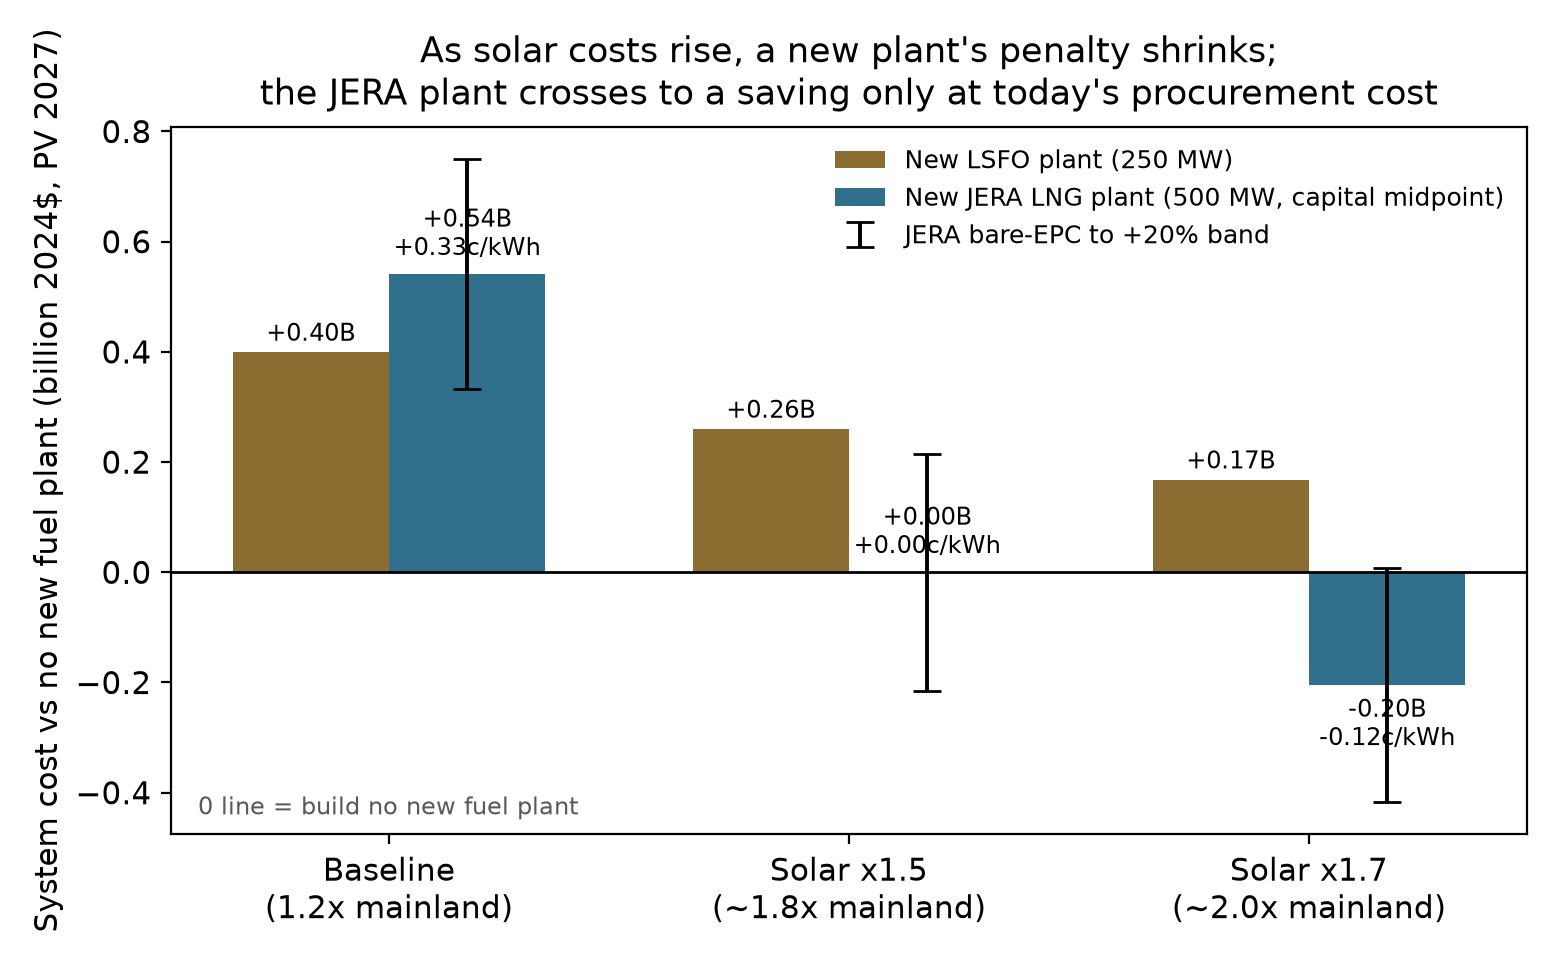
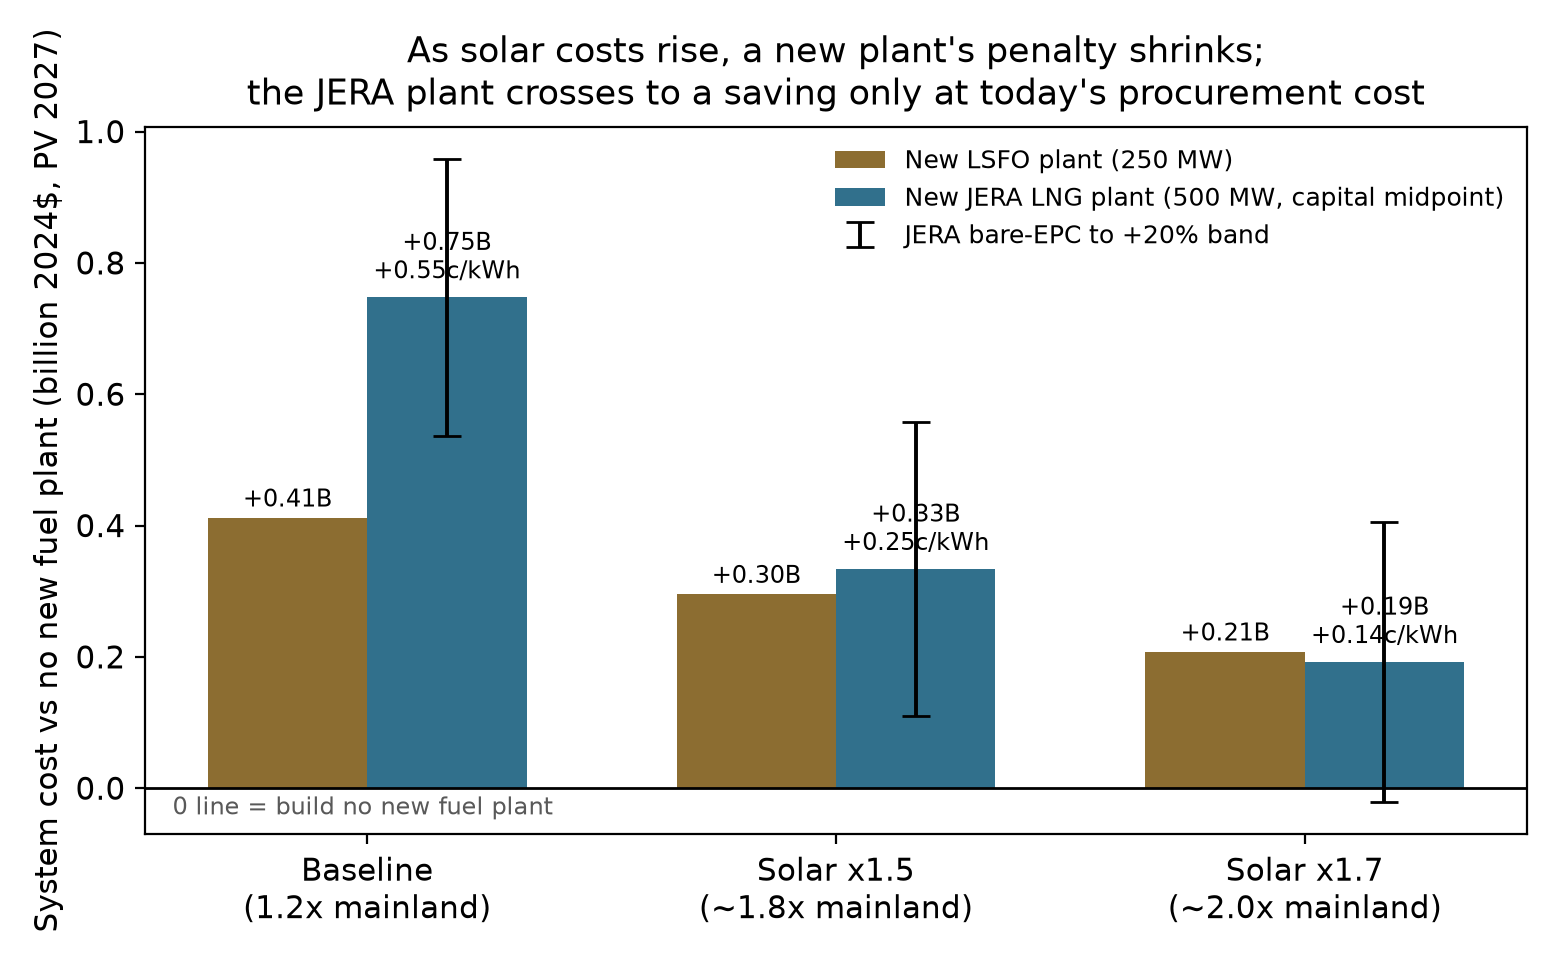
Sync results and report from working repository

diff --git a/report/DRAFT_v7_full.md b/report/DRAFT_v7_full.md
@@ -52,11 +52,11 @@ new fuel plant, and the considerations outside the cost model also point away
 from it.** Solved at the midpoint of JERA's own cost range — their bare-EPC
 estimate and their +20 percent sensitivity, which restores the customs,
 insurance, design-allowance, and contingency items the estimate excludes — the
-JERA bundle comes in $0.54 billion above building no new fuel plant at
-reference oil, with the range spanning $0.33 to $0.75 billion above (Table
-ES.1). The gap is smaller at low oil ($0.47 billion) and larger at high oil
-($0.70 billion), and positive in every case. Differences of this size amount
-to roughly a third of a cent per kilowatt-hour (Appendix A.1) — under one
+JERA bundle comes in $0.75 billion above building no new fuel plant at
+reference oil, with the range spanning $0.54 to $0.96 billion above (Table
+ES.1). The gap is smaller at low oil ($0.67 billion) and larger at high oil
+($0.85 billion), and positive in every case. Differences of this size amount
+to roughly half a cent per kilowatt-hour (Appendix A.1) — under two
 percent of a typical bill, so other considerations might tilt the balance. Considerations 
 the cost model does not capture push the same way, however: a twenty-year 
 single-supplier contract whose price formula should be read as a floor rather 
@@ -78,7 +78,7 @@ plants, not a new one.
 The case for LNG, but not necessarily a new power plant, is stronger if solar 
 deployment costs stay near today's procurement reality, or if existing storage tax 
 credits are denied — while the clean-energy mandate itself is inexpensive to keep 
-(about $0.3 billion, or 0.18 cents per kilowatt-hour; Section 4.6b) if the Hawaii
+(about $0.26 billion, or about 0.2 cents per kilowatt-hour; Section 4.6b) if the Hawaii
 solar premium is limited to 20% above national midline projections.
 
 **Finding 3. Under current law, Enhanced Geothermal is in the least-cost
@@ -115,13 +115,13 @@ a deliberately extreme charge (Section 4.6a).
 
 | Trajectory | Low oil | Reference | High oil |
 |---|---:|---:|---:|
-| No new fuel plant | 26.30 | 26.70 | 27.18 |
-| LNG conversions, no new plant — net of conversion capital | — | 26.00 (−0.70) *[−0.44]* | — |
-| Modern LSFO plant (250 MW) | 26.65 (+0.35) | 27.10 (+0.40) | 27.66 (+0.48) |
-| JERA LNG 500 MW — midpoint | 26.78 (+0.48) | 27.24 (+0.54) | 27.88 (+0.70) |
-| *…JERA band [bare-EPC, +20%]* | *[+0.27, +0.69]* | *[+0.33, +0.75]* | *[+0.49, +0.91]* |
-| Waiau Repower only | 27.67 (+1.36) | 28.07 (+1.38) | 28.58 (+1.40) |
-| Waiau + LSFO plant | 28.08 (+1.78) | 28.54 (+1.84) | 29.10 (+1.92) |
+| No new fuel plant | 25.49 | 25.86 | 26.32 |
+| LNG conversions, no new plant — net of conversion capital | — | 25.25 (−0.61) *[−0.35]* | — |
+| Modern LSFO plant (250 MW) | 25.90 (+0.40) | 26.27 (+0.41) | 26.81 (+0.49) |
+| JERA LNG 500 MW — midpoint | 26.17 (+0.67) | 26.60 (+0.75) | 27.17 (+0.85) |
+| *…JERA band [bare-EPC, +20%]* | *[+0.46, +0.89]* | *[+0.54, +0.96]* | *[+0.64, +1.07]* |
+| Waiau Repower only | 26.87 (+1.38) | 27.25 (+1.39) | 27.76 (+1.44) |
+| Waiau + LSFO plant | 27.34 (+1.85) | 27.74 (+1.88) | 28.28 (+1.96) |
 | Waiau + JERA LNG — midpoint | — | 28.71 (+2.01) | — |
 
 **Reliability.** Every scenario considered meets load and operating reserves at
@@ -954,8 +954,8 @@ billion on its own, and every bundle containing it inherits the penalty. This
 result is robust to every sensitivity in the report.
 
 **A right-sized plant costs less than the proposal.** At the midpoint of
-JERA's cost range, a 375 MW version comes in $0.25 billion above no-new-plant
-against $0.54 billion for the 500 MW version, smaller but still a cost
+JERA's cost range, a 375 MW version comes in $0.38 billion above no-new-plant
+against $0.75 billion for the 500 MW version, smaller but still a cost
 increase. One caution attaches. We price the smaller plant at the same
 dollars-per-kilowatt as the 500 MW proposal, while JERA attributes its
 attractive unit cost partly to scale (proposal p. 17), so the 375 MW figure
@@ -963,8 +963,8 @@ may understate what a smaller plant would actually cost.
 
 **The JERA-500 versus no-new-plant comparison favors no new plant, and the
 margin moves with solar costs.** At the midpoint of JERA's capital range the
-bundle is $0.54 billion more expensive at reference oil (band +0.33 to +0.75),
-$0.47 billion at low oil, and $0.69 billion at high oil, a cost increase in
+bundle is $0.75 billion more expensive at reference oil (band +0.54 to +0.96),
+$0.67 billion at low oil, and $0.85 billion at high oil, a cost increase in
 every case. The margin is sensitive to the solar premium in the direction one
 would expect: firm gas capacity substitutes for solar-plus-storage, so the
 more Hawaiʻi pays for solar and storage, the better LNG looks. At our baseline
@@ -1049,10 +1049,10 @@ against building no new fuel plant, in billions of 2024$ at reference oil:
 
 | | Burns LSFO (today's fuel) | Burns LNG (terminal built) |
 |---|---:|---:|
-| **Existing plants only** | baseline (0) | −0.40 (Kalaeloa converted) to −1.15 (also Kahe 5 & 6, CIP CT); −0.70 net of the full 2016 conversion-program charge |
-| **New 500 MW combined cycle** | +1.15 | +0.33 bare-EPC; +0.54 at the capital midpoint |
+| **Existing plants only** | baseline (0) | −0.40 (Kalaeloa converted) to −1.06 (also Kahe 5 & 6, CIP CT); −0.61 net of the full 2016 conversion-program charge |
+| **New 500 MW combined cycle** | +1.22 | +0.54 bare-EPC; +0.75 at the capital midpoint |
 
-*Conversion capital is set to zero in the solved conversion cells; the −0.70
+*Conversion capital is set to zero in the solved conversion cells; the −0.61
 net figure charges the entire 2016 conversion-program estimate ($450M in
 2024$) against the converted units as a capital adjustment, the same
 treatment as the EGS cost sensitivity. Details and caveats in Section 4.6a.*
@@ -1097,8 +1097,8 @@ only the fuel-price channel survives.
 
 The reverse question, whether to prefer an LSFO plant available at the LNG
 plant's price, has the same answer with the sign reversed. On fuel cost alone
-the LSFO plant loses by $0.61 billion at matched 500 MW size and the capital
-midpoint ($0.82 billion at bare-EPC). What the LSFO version buys instead is
+the LSFO plant loses by $0.47 billion at matched 500 MW size and the capital
+midpoint ($0.68 billion at bare-EPC). What the LSFO version buys instead is
 structure: no import terminal, no 20-year take-or-pay commitment, fuel from the
 existing in-state supply chain with its established biofuel transition path, and
 no single-supplier exposure. Whether that structure is worth the fuel premium
@@ -1309,12 +1309,12 @@ combustion turbine.
 | Configuration (reference oil) | System cost ($B) | vs no-new-plant |
 |---|---:|---:|
 | No new fuel plant, no LNG | 26.70 | — |
-| FSRU + Kalaeloa conversion, no new plant | 26.29 | −0.40 |
-| FSRU + Kalaeloa, Kahe 5 & 6, CIP CT conversions, no new plant | 25.55 | **−1.15** |
-| *…same, net of the full 2016 conversion-program charge ($0.45B)* | *26.00* | ***−0.70*** |
-| *…same, also charging the entire 2016 onshore package ($0.26B)* | *26.26* | *−0.44* |
-| JERA 500 (bare-EPC), no conversions | 27.03 | +0.33 |
-| JERA 500 (bare-EPC) + Kalaeloa conversion | 26.57 | −0.13 |
+| FSRU + Kalaeloa conversion, no new plant | 25.46 | −0.40 |
+| FSRU + Kalaeloa, Kahe 5 & 6, CIP CT conversions, no new plant | 24.80 | **−1.06** |
+| *…same, net of the full 2016 conversion-program charge ($0.45B)* | *25.25* | ***−0.61*** |
+| *…same, also charging the entire 2016 onshore package ($0.26B)* | *25.51* | *−0.35* |
+| JERA 500 (bare-EPC), no conversions | 26.39 | +0.54 |
+| JERA 500 (bare-EPC) + Kalaeloa conversion | 25.93 | +0.07 |
 
 At the vendor's cost quote, the conversion configurations beat building the
 new plant. Kalaeloa alone saves more than JERA's plant does: the model
@@ -1323,7 +1323,7 @@ running them at 80–90 percent capacity factor through 2044 — with no new
 construction at all. Extending conversion to Kahe 5 and 6 and the CIP
 turbine makes the no-new-plant configuration the cheapest LNG arrangement
 tested; on the credited basis the bare-EPC plant does not save at all
-(+0.33). And the terminal needs no mandate to be used this way: in a variant
+(+0.54). And the terminal needs no mandate to be used this way: in a variant
 where LNG import is offered as an option rather than forced, the model
 activates the terminal and the Kalaeloa conversion on its own, reaching the
 same −0.40 as the forced-Kalaeloa case. At the quoted fuel price, the terminal
@@ -1667,9 +1667,9 @@ proposal costs modestly more than building no new fuel plant. Taking the
 midpoint of JERA's own cost range — their bare-EPC estimate and their +20%
 sensitivity, which restores the customs, insurance, design-allowance and
 contingency items the estimate itself says it excludes — the JERA bundle is
-about $0.54 billion more expensive over twenty-four years, and more expensive
+about $0.75 billion more expensive over twenty-four years, and more expensive
 in every oil-price case tested. Per kilowatt-hour delivered, the difference is
-about a third of a cent — small against a bill of thirty-plus cents, so the
+about half a cent — small against a bill of thirty-plus cents, so the
 cost gap alone does not decide the question, but it no longer favors LNG in any
 case, and every consideration outside the cost model points the same way. The
 findings that are larger: the Waiau Repower is uneconomic under every oil price
@@ -1953,7 +1953,7 @@ undiscounted would overstate the denominator and understate the per-unit cost;
 we discount both. Delivered energy is the system's served load, about 8.1 TWh
 per year rising to about 9.0 TWh by 2050, whose present value over 2027–2050
 is about 165 TWh (undiscounted, it is about 240 TWh). At this present-value
-denominator, a $1 billion difference in system cost equals about 0.61 cents
+denominator, a $1 billion difference in system cost equals about 0.74 cents
 per kilowatt-hour. Both numerator and denominator come from the same solved
 run, so the ratio is internally consistent with every dollar figure quoted.
 
